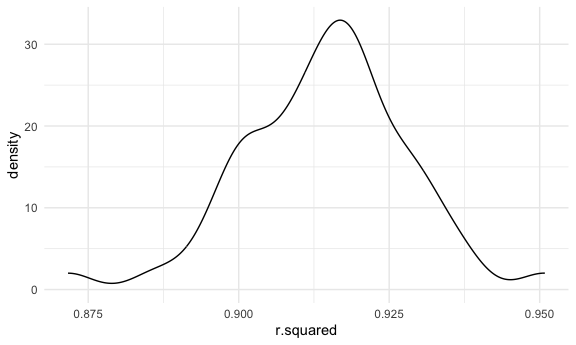
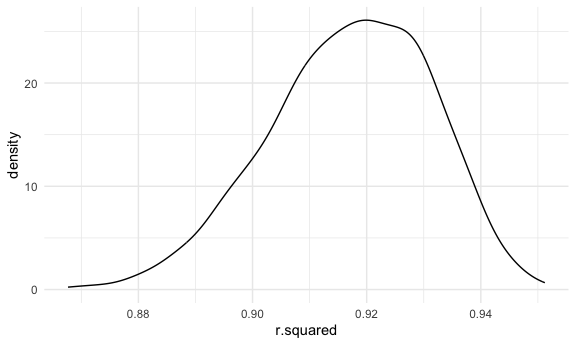
added tibble to function. still no visual for r_sq plot

diff --git a/p8105_hw6_co2554.md b/p8105_hw6_co2554.md
@@ -126,7 +126,7 @@ model_results |>
   theme(axis.text.x = element_text(angle = 90, hjust = 1))
 ```
 
-<img src="p8105_hw6_co2554_files/figure-gfm/unnamed-chunk-5-1.png" width="90%" />
+<img src="p8105_hw6_co2554_files/figure-gfm/model_results_2-1.png" width="90%" />
 
 ### Problem 2
 
@@ -199,25 +199,35 @@ weather_boot = function(df) {
   
   data = sample_frac(df, replace = TRUE)
   
-  r_sq = lm(tmax ~ tmin + prcp, data = data) |> 
-    broom::glance() |> 
+r_squared =
+    lm(tmax ~ tmin + prcp, data = data) |>
+    broom::glance() |>
     select(r.squared)
   
-  log_est = lm(tmax ~ tmin + prcp, data = data) |> 
-    broom::tidy() |> 
-    filter(term %in% c("tmin", "prcp")) |> 
-    spread(term, estimate) |> 
-    summarise(log = ifelse(tmin > 0 & prcp > 0, log(tmin * prcp), NA_real_))
-  
-  tibble(r_sq, log_est)
-  
-}
+  coefficients =
+  model |> 
+  broom::tidy() |>
+  filter(term %in% c("tmin", "prcp")) |>
+  select(term, estimate) |>
+  pivot_wider(
+    names_from = term,
+    values_from = estimate
+  ) |> 
+  mutate(
+    log_coefficient = log(tmin * prcp)
+    ) |> 
+  select(log_coefficient)
 
+  tibble(
+    r_squared, coefficients
+  )
+}
 # bootstrap 5000 times
 
 weather_iter =
-  tibble(strap_number = 1:50) |> #kept temporarily at 50
-  mutate(strap_sample = map(strap_number, ~weather_boot(weather_df))) |> 
+  tibble(strap_number = 1:1000) |> #kept temporarily at 1000
+  mutate(
+    strap_sample = map(strap_number, \(i) weather_boot(weather_df))) |> 
   unnest(strap_sample)
 ```
 
@@ -235,7 +245,7 @@ weather_iter |>
 ``` r
 #distribution of log coefficients
 weather_iter |> 
-  ggplot(aes(x = log)) +
+  ggplot(aes(x = log_coefficient)) +
   geom_density()
 ```
 
@@ -248,9 +258,9 @@ Interval for r^2 and log(β̂\_1∗β̂\_2).
 
 ``` r
 weather_iter |> 
-  select(r.squared,log) |> 
+  select(r.squared,log_coefficient) |> 
   pivot_longer(
-    cols = c(r.squared, log),
+    cols = c(r.squared, log_coefficient),
     names_to = "quantity", 
     values_to = "estimate"
   ) |> 
@@ -261,7 +271,7 @@ weather_iter |>
 ```
 
     ## # A tibble: 2 × 3
-    ##   quantity   ci_LL  ci_UL
-    ##   <chr>      <dbl>  <dbl>
-    ## 1 log       NA     NA    
-    ## 2 r.squared  0.886  0.937
+    ##   quantity         ci_LL  ci_UL
+    ##   <chr>            <dbl>  <dbl>
+    ## 1 log_coefficient NA     NA    
+    ## 2 r.squared        0.887  0.941
